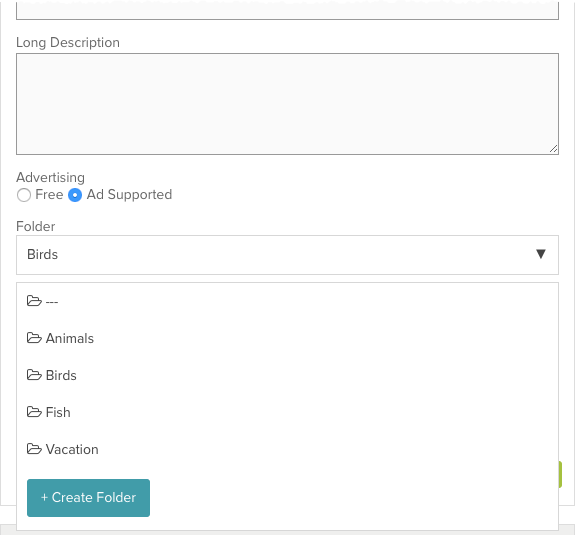
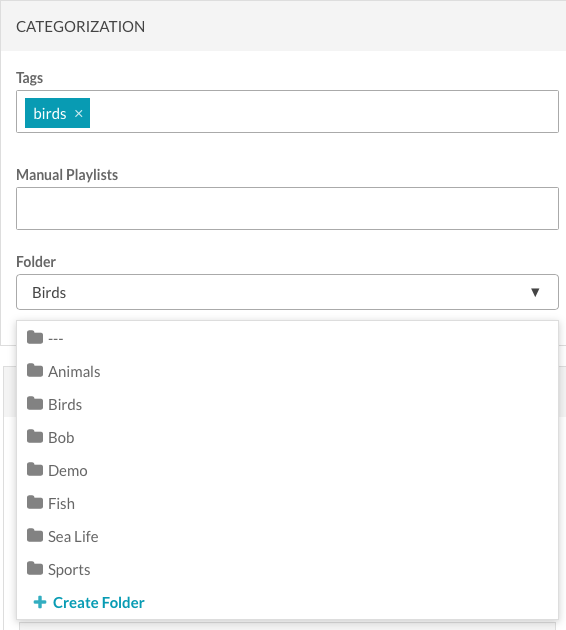
changes for categorization section

diff --git a/_site/media/organizing-videos-using-folders.html b/_site/media/organizing-videos-using-folders.html
@@ -934,8 +934,7 @@ function doGTranslate(lang_pair) {if(lang_pair.value)lang_pair=lang_pair.value;i
       <p>Videos can be added to a folder by editing the video properties and assigning a folder.</p>
       <ol class="bcls-tasklist-restart">
         <li>In the <strong>Media</strong> module, click the link for the video.</li>
-        <li>In the <strong>Video Information</strong> section, click <strong>Edit</strong>.</li>
-        <li>Select a <strong>Folder</strong> and click <strong>Save</strong>. You can also create a new folder by clicking on <strong>+Create Folder</strong>.
+        <li>In the <strong>Categorization</strong> section, select a <strong>Folder</strong>. You can also create a new folder by clicking on <strong>+ Create Folder</strong>.
           <figure class="bcls-figure"><img class="bcls-image--no-border" alt="" src="/assets/images/media/node15095-video-info-folder.png" /></figure>
         </li>
       </ol>

diff --git a/media/organizing-videos-using-folders.html b/media/organizing-videos-using-folders.html
@@ -58,8 +58,7 @@ parent: Managing Videos
       <p>Videos can be added to a folder by editing the video properties and assigning a folder.</p>
       <ol class="bcls-tasklist-restart">
         <li>In the <strong>Media</strong> module, click the link for the video.</li>
-        <li>In the <strong>Video Information</strong> section, click <strong>Edit</strong>.</li>
-        <li>Select a <strong>Folder</strong> and click <strong>Save</strong>. You can also create a new folder by clicking on <strong>+Create Folder</strong>.
+        <li>In the <strong>Categorization</strong> section, select a <strong>Folder</strong>. You can also create a new folder by clicking on <strong>+ Create Folder</strong>.
           <figure class="bcls-figure"><img class="bcls-image--no-border" alt="" src="/assets/images/media/node15095-video-info-folder.png" /></figure>
         </li>
       </ol>

diff --git a/_site/media/creating-and-managing-playlists.html b/_site/media/creating-and-managing-playlists.html
@@ -1081,7 +1081,7 @@ function doGTranslate(lang_pair) {if(lang_pair.value)lang_pair=lang_pair.value;i
 
 <hr>
 <div class="last-updated">
-  Page last updated on 28 Sep 2020
+  Page last updated on 02 Dec 2020
 </div>
 
 

diff --git a/_site/media/editing-video-properties-using-media-module.html b/_site/media/editing-video-properties-using-media-module.html
@@ -1037,7 +1037,7 @@ function doGTranslate(lang_pair) {if(lang_pair.value)lang_pair=lang_pair.value;i
 
 <hr>
 <div class="last-updated">
-  Page last updated on 28 Sep 2020
+  Page last updated on 02 Dec 2020
 </div>
 
 
